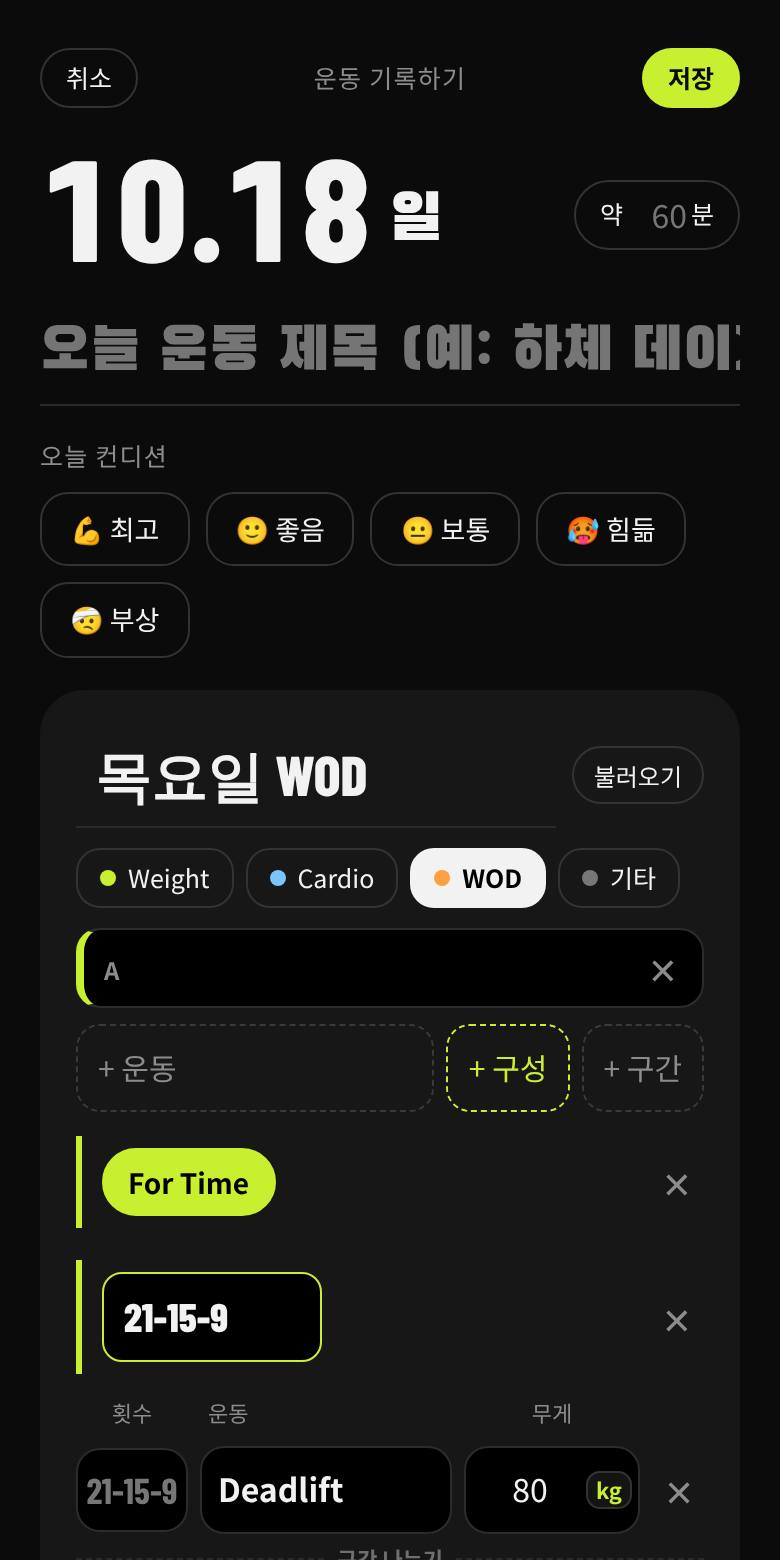
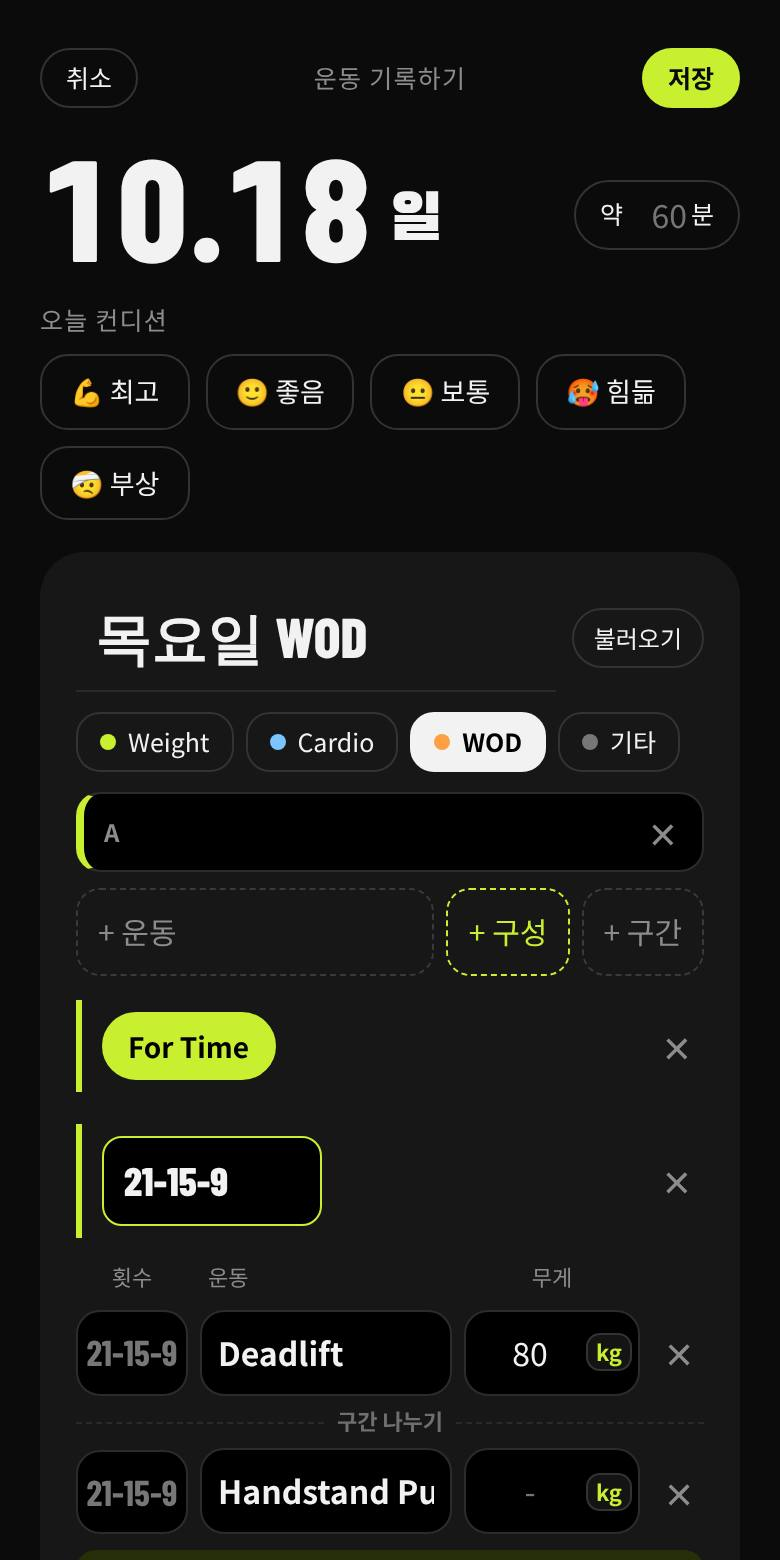
One name box per record; rep schemes like 21-15-9 fill rows without asking
Claude-Session: https://claude.ai/code/session_019eoxjeUYsC1xCLQy9vy9QX

diff --git a/index.html b/index.html
@@ -402,7 +402,9 @@ const DEF_PATTERNS = [
 ];
 const patShape = t => t.tpl === 'N' ? t.label : t.tpl.replace('N', '□');
 const patLabel = p => !p ? '' : p.tpl ? (p.v ? p.tpl.replace('N', p.v) : patShape(p)) : p.kind === 'scheme' ? p.v : p.kind === 'rounds' ? `${p.v} 라운드` : `${p.v}분`;
-const schemeOf = p => p && (p.fill || p.kind === 'scheme') ? p.v || '' : '';
+/* a number like 21-15-9 is a rep scheme and fills the exercise rows below it; a single number (5 라운드) does not */
+const SCHEME_RE = /^\s*\d+(\s*-\s*\d+)+\s*$/;
+const schemeOf = p => p && (p.fill || p.kind === 'scheme' || SCHEME_RE.test(p.v || '')) ? p.v || '' : '';
 const patFrom = (t, v) => t ? {t:t.id, label:t.label, tpl:t.tpl || t.label, fill:!!t.fill, ...(t.res ? {res:t.res} : {}), v:v || ''} : null;
 /* 방식 chips: formats and number chips ("N 라운드") are one list to the user; any number of them can be picked */
 const chipById = id => state.formats.find(x => x.id === id) || state.patterns.find(x => x.id === id);
@@ -995,7 +997,6 @@ function pageEdit() {
   </div>
   ${plan ? `<div class="row wrap" style="gap:8px"><span class="pill lime">${esc(repeatText(plan))} · ${esc(plan.title)} 불러옴</span><span class="sub" style="font-size:12px">지난 무게를 미리 채웠어요</span></div>` : ''}
   <datalist id="exNames">${state.exercises.map(e => `<option value="${esc(e.name)}">`).join('')}</datalist>
-  <input class="inp big" id="dTitle" data-d="title" value="${esc(d.title)}" placeholder="오늘 운동 제목 (예: 하체 데이)" aria-label="운동 제목">
   <div><div class="eb" style="margin-bottom:8px">오늘 컨디션</div><div class="chips">${MOODS.map(([e, l]) => `<button class="chip" aria-pressed="${d.mood === e}" data-action="mood" data-v="${e}">${e} ${l}</button>`).join('')}</div></div>
   ${d.items.map((it, i) => it.type === 'wod' ? wodCard(it, i) : exEditCard(it, i)).join('') || '<div class="card empty">아래에서 카드를 추가해 주세요.</div>'}
   ${ui.grouping ? `<div class="groupbar"><span class="sub" style="color:var(--ink)">${ui.groupSel.length}개 선택</span><span class="grow"></span><button class="pill" data-action="group-cancel">취소</button><button class="btn lime small" style="width:auto;padding:10px 18px" data-action="group-do">WOD로 묶기</button></div>`
@@ -1389,7 +1390,6 @@ function sheetFrEdit() {
   openSheet(`<div class="row between"><h2 class="disp" style="font-size:28px">방식 ${d.id ? '수정' : '추가'}</h2><button class="pill solid" data-action="fe-save">저장</button></div>
     <label class="field"><span class="lbl">칩 이름 (그때그때 숫자를 적을 자리는 n)</span><input class="inp" id="feName" data-fe="name" value="${esc(d.name)}" placeholder="예: Chipper, n 라운드, Team of n"></label>
     <div class="sub" style="font-size:13px" id="feHint">${n ? `기록할 때 n 자리에 숫자 칸이 떠요. 예: ${esc(d.name.replace(N_RE, '$13'))}` : 'n을 넣으면 기록할 때 숫자를 적는 칸이 떠요.'}</div>
-    ${n ? `<div class="field"><span class="lbl">숫자를 운동 줄 횟수에도 채울까요?</span><div class="opt">${[[false, '아니요 (5 라운드처럼)'], [true, '네 (21-15-9처럼)']].map(([v, l]) => `<button class="${!!d.fill === v ? 'on' : ''}" data-action="fe-fill" data-v="${v ? 1 : ''}">${l}</button>`).join('')}</div></div>` : ''}
     <label class="field"><span class="lbl">메모 (선택)</span><input class="inp" id="feNote" data-fe="note" value="${esc(d.note || '')}" placeholder="이 방식 설명"></label>
     ${d.id ? `<button class="btn danger small" data-action="fe-del">${ui.confirm === 'fe-del' ? '한 번 더 누르면 삭제' : '삭제'}</button>` : ''}`);
 }
@@ -1446,7 +1446,9 @@ function toCards(items) {
 }
 const isBlankCard = it => it.type === 'wod' && !it.wodId && !(it.name || '').trim() && !wodResult(it) && it.parts.every(p => p.fmt.id === 'none' && !pList(p).length && p.moves.every(m => !m.n.trim()));
 function pushCard(d, it) { const k = ui.swapCard; ui.swapCard = null; if (k != null && d.items[k]) { it.cat ||= d.items[k].cat; d.items[k] = it; } else if (d.items.length === 1 && isBlankCard(d.items[0])) d.items = [it]; else d.items.push(it); }
-function openEditor(draft) { draft.items = toCards(draft.items); if (!draft.items.length) draft.items.push(dailyItem()); if (draft.cat && !draft.items[0].cat) draft.items[0].cat = draft.cat; ui.mvOrder = null; ui.draft = draft; ui.page = 'edit'; ui.confirm = null; closeSheet(); render(); }
+function openEditor(draft) { draft.items = toCards(draft.items); if (!draft.items.length) draft.items.push(dailyItem());
+  /* one name box: the card title is the record's title */
+  const c0 = draft.items[0]; if (draft.title && c0.type === 'wod' && (!c0.name.trim() || c0.name === 'Daily WOD')) c0.name = draft.title; if (draft.cat && !draft.items[0].cat) draft.items[0].cat = draft.cat; ui.mvOrder = null; ui.draft = draft; ui.page = 'edit'; ui.confirm = null; closeSheet(); render(); }
 function openDay(ds) { ui.dayDate = ds; ui.page = 'day'; ui.confirm = null; closeSheet(); render(); }
 function openPlan(p) { ui.pdraft = p; ui.page = 'plan'; ui.confirm = null; closeSheet(); render(); }
 const recordDate = () => ui.sel > TODAY() ? TODAY() : ui.sel;
@@ -1522,6 +1524,7 @@ const A = {
     const d = ui.draft;
     let added = 0;
     d.cat = d.items.find(it => it.type === 'wod' && it.cat)?.cat || d.cat || ''; if (!d.cat && d.items[0]?.type === 'wod') d.cat = cardCat(d.items[0]);
+    const nm = d.items[0]?.type === 'wod' ? d.items[0].name.trim() : ''; d.title = nm && nm !== 'Daily WOD' ? nm : '';
     d.items = d.items.flatMap(it => setsOnlyCard(it) ? cardToEx(it, () => added++) : [it]);
     d.items = d.items.map(it => it.type === 'wod' ? cleanWod(it, () => added++) : it).filter(Boolean);
     d.items = d.items.map(it => it.type === 'ex' ? {...it, sets:it.sets.filter(s => it.fields.some(k => s[k] !== undefined && s[k] !== ''))} : it).filter(it => it.type === 'wod' || it.sets.length);
@@ -1702,7 +1705,6 @@ const A = {
     ui.fe = {id:x?.id || null, name:!x ? '' : x.tpl === 'N' ? x.label : x.tpl ? x.tpl.replace('N', 'n') : x.label, res:x?.res || '', note:x?.note || '', fill:!!x?.fill, ph:x?.ph || ''}; sheetFrEdit(); },
   'fr-copy': el => { A['fr-edit'](el); ui.fe.id = null; if (ui.fe.name) ui.fe.name += ' 2'; sheetFrEdit(); },
   'fe-res': el => { ui.fe.res = el.dataset.v; refreshSheet(); },
-  'fe-fill': el => { ui.fe.fill = !!el.dataset.v; refreshSheet(); },
   'fe-save': () => { const d = ui.fe, name = (d.name || '').trim(); if (!name) { toast('이름을 적어 주세요'); return; }
     const old = d.id && chipById(d.id), id = d.id || 'f' + uid(); let x;
     if (old && old.tpl === 'N' && name === old.label) x = {...old, ...(d.res ? {res:d.res} : {}), note:(d.note || '').trim(), fill:!!d.fill};

diff --git a/sw.js b/sw.js
@@ -1,4 +1,4 @@
-const C = 'setlog-1792384991395';
+const C = 'setlog-1792396899812';
 const CORE = ['./', 'index.html', 'manifest.webmanifest', 'icon-192.png', 'icon-512.png', 'apple-touch-icon.png', 'guide/1.jpg', 'guide/2.jpg', 'guide/3.jpg', 'guide/4.jpg', 'guide/5.jpg'];
 self.addEventListener('install', e => { e.waitUntil(caches.open(C).then(c => c.addAll(CORE)).then(() => self.skipWaiting())); });
 self.addEventListener('activate', e => { e.waitUntil(caches.keys().then(ks => Promise.all(ks.filter(k => k !== C).map(k => caches.delete(k)))).then(() => self.clients.claim())); });
